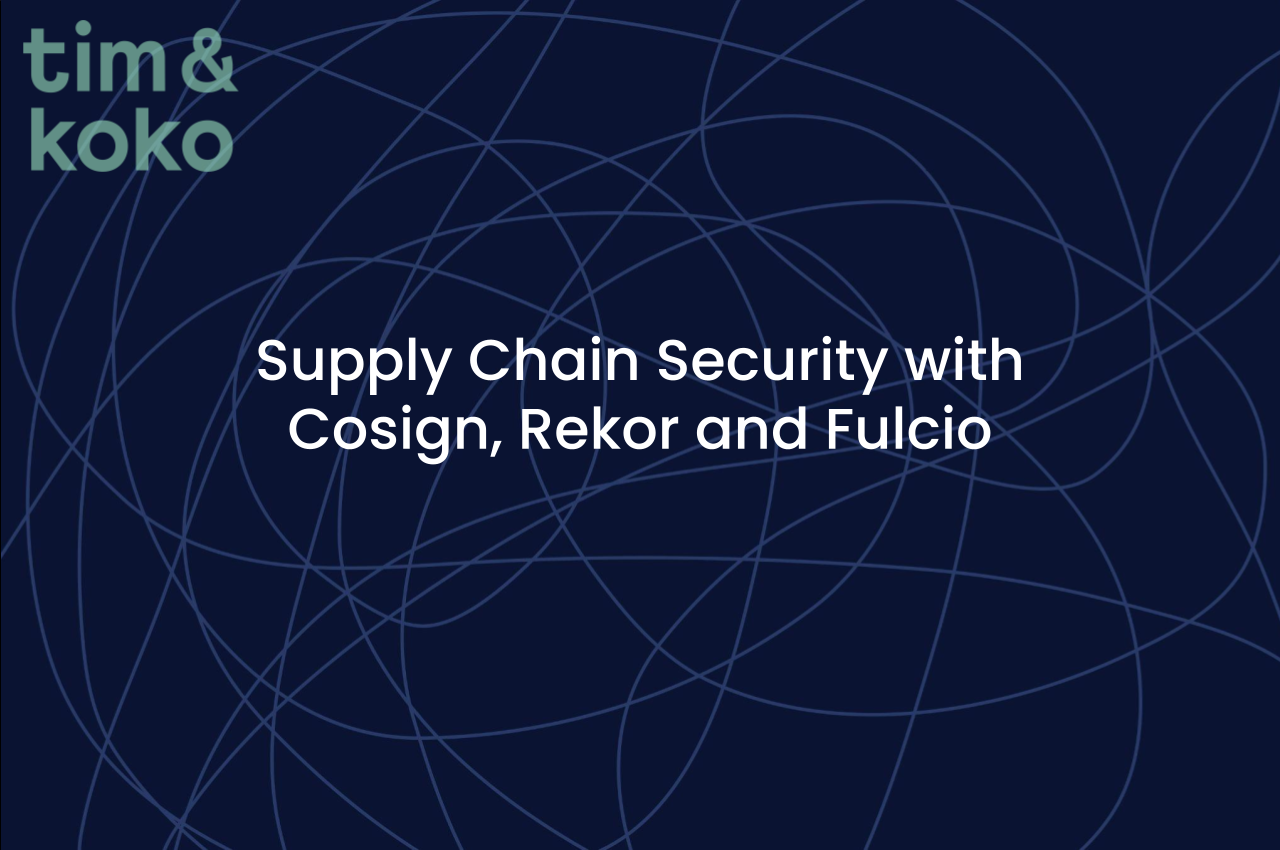
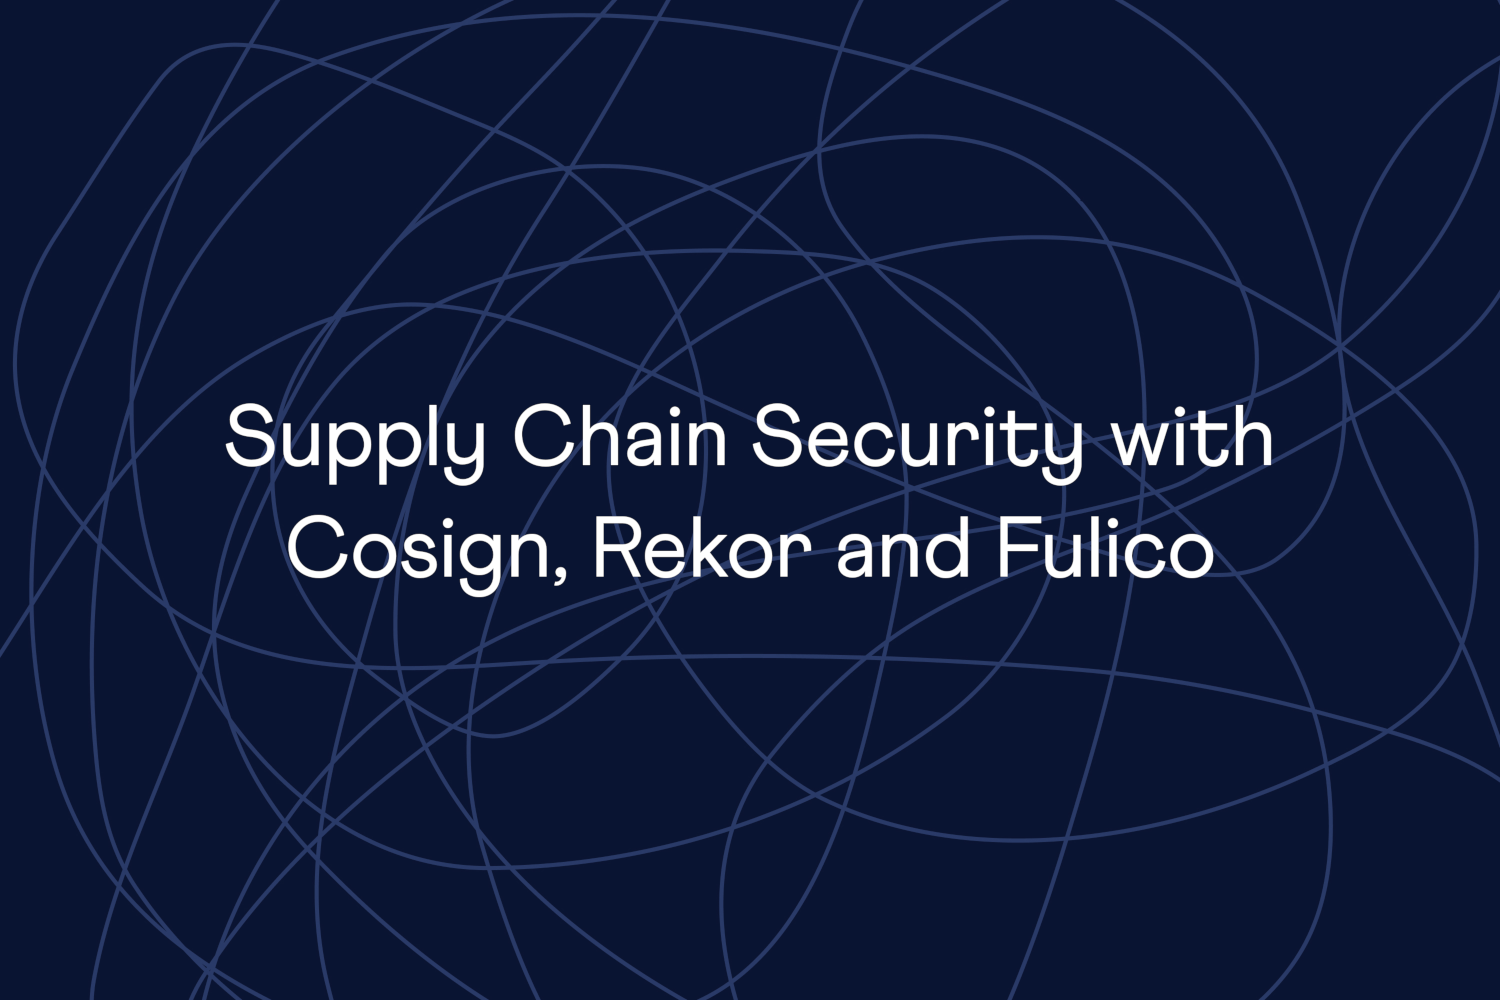
Change image and add border

diff --git a/content/de/blog/20240901-supply-chain-security-01.md b/content/de/blog/20240901-supply-chain-security-01.md
@@ -6,6 +6,7 @@ date: 2024-09-01T00:00:00+00:00
 lastmod: 2024-09-01T00:00:00+00:00
 draft: false
 images: ["images/blog/scs/supply-chain-security-blog.png"]
+img_border: true
 Sitemap:
 Priority: 0.91
 categories: ["Technologie", "Kubernetes", "Container", "Security"]

diff --git a/content/en/blog/20240901-supply-chain-security-01.md b/content/en/blog/20240901-supply-chain-security-01.md
@@ -6,6 +6,7 @@ date: 2024-09-01T00:00:00+00:00
 lastmod: 2024-09-01T00:00:00+00:00
 draft: false
 images: ["images/blog/scs/supply-chain-security-blog.png"]
+img_border: true
 Sitemap:
 Priority: 0.91
 categories: ["Technologie", "Kubernetes", "Container", "Security"]
